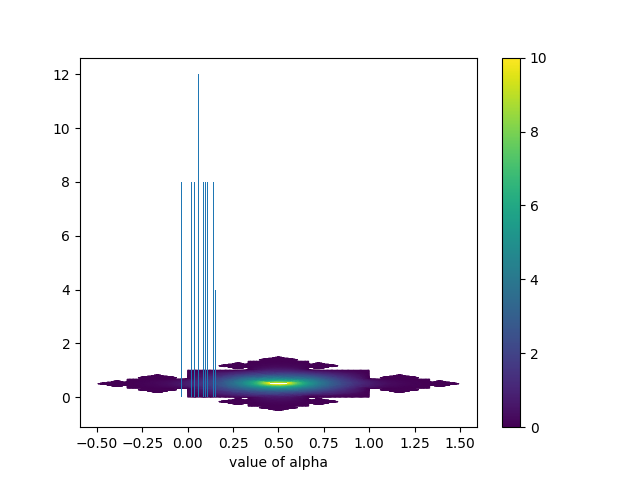
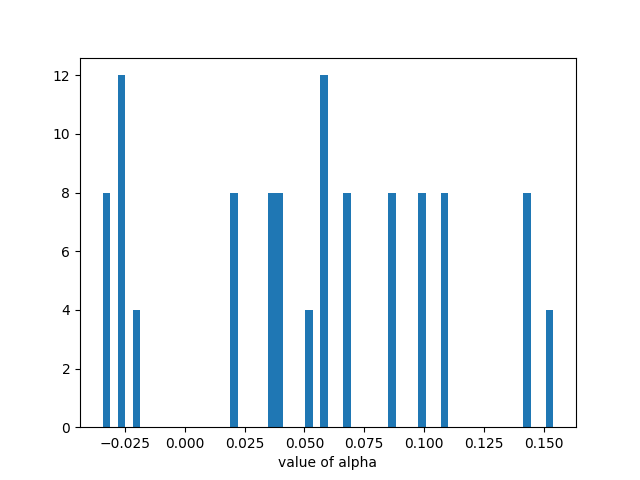
update

diff --git a/Ex3_square_harmonic_v2/estimate_all_path.py b/Ex3_square_harmonic_v2/estimate_all_path.py
@@ -92,13 +92,14 @@ def estimate_all(n,uh):
    PETSc.Sys.Print("Total number of the path from center to boundary is ", len(path_to_boundary), " which should be 4*3^(n-1)")
    PETSc.Sys.Print("Mean of the alpha is % s, the standard deviation is %s " %(alpha_mean,alpha_std))
    PETSc.Sys.Print("Mean of the c is % s, the standard deviation is %s " %(c_mean,c_std))
-
+   plt.figure() 
    plt.hist(alpha0,bins=60)
    plt.xlabel('value of alpha')
    plt.savefig(f"figures/distribution_alpha.png")
    plt.close()
    PETSc.Sys.Print(f"plot of distribution of all estiamted alpha is saved in figures/distribution_alpha.png.")
-
+  
+   plt.figure() 
    plt.hist(c0,bins=60)
    plt.xlabel('value of c')
    plt.savefig(f"figures/distribution_c.png")

diff --git a/Ex3_square_harmonic_v2/harmonic_problem.py b/Ex3_square_harmonic_v2/harmonic_problem.py
@@ -47,6 +47,7 @@ fig, axes = plt.subplots()
 collection = tripcolor(uh, axes=axes)
 fig.colorbar(collection);
 plt.savefig(f"figures/solution_{n}.png")
+plt.close()
 PETSc.Sys.Print(f"The plot of solution is saved to figures/solution_{n}.png")
 
 uu=uh.at(pp)
